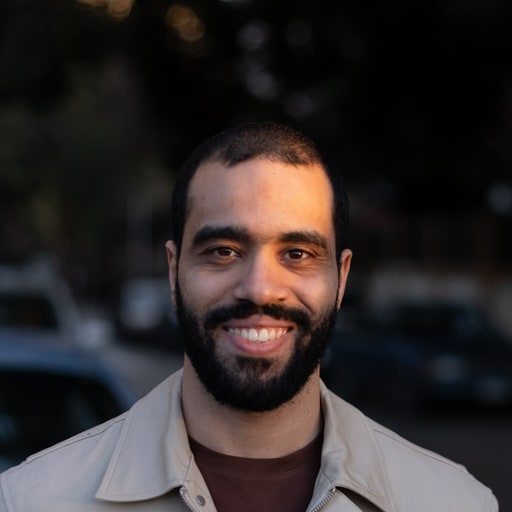
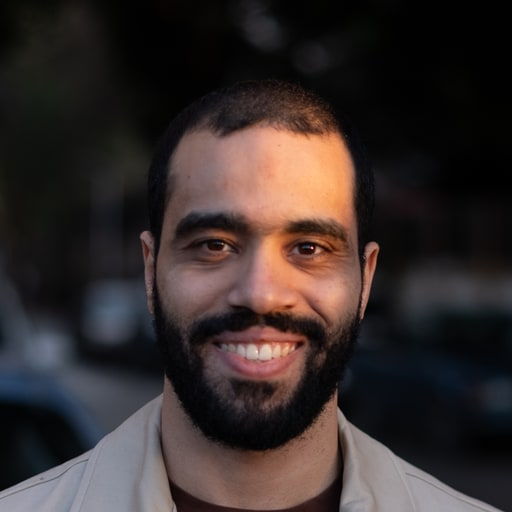
Centre the byline and metadata as a band; bigger emblem; tighter portrait
THE BAND. Byline and metadata are now one centred group sitting between the
deck and the first paragraph, rather than a name under the deck and a stack in
the margin. They are one thought — who wrote this, what it is, when it
happened — and centring separates that from the left-aligned reading column
above and below, so the eye takes it in once and moves on.

The metadata runs inline again to suit the band, with dot separators drawn in
CSS so no item has to know whether it is last.

SPACING IS OWNED BY THE BAND, which is what makes it identical with or without
a standfirst. Measured both ways: 96px above and 96px below, deck or no deck.

Getting there exposed a real defect. `.article__title` and `.article__deck`
were each declared TWICE in article.css — once in the grid placement block and
again in the typographic block below it — and the later margins were silently
winning by source order. My first attempt at the fix appeared to do nothing
for exactly that reason. Spacing for the header rows now lives in one place
and the duplicates carry type only.

Emblem 1.75rem -> 2.5rem. Footer carries the site name: © 2026 Brand
Ponderatio.

PORTRAIT recropped tighter and lifted — 0.50 of frame height rather than 0.64,
centred at 37.5% rather than 37%. Checked against a circular mask rather than
the square, since the square is not what anyone sees.

Also: "Suppose Parts 1 and 2 are granted" in Part III, missed when the prose
moved to roman numerals.

diff --git a/src/styles/article.css b/src/styles/article.css
@@ -42,7 +42,9 @@
   grid-column: 1 / -1;
   grid-row: 1;
   grid-template-columns: subgrid;
-  margin-block-end: var(--space-8);
+  /* Matches the band's own top margin, so the band sits in a symmetrical
+     clearing between the title block and the prose. */
+  margin-block-end: var(--space-9);
 }
 
 /* Four rows, explicitly placed.
@@ -50,16 +52,19 @@
      row 1   ┌──── breadcrumb ──────────────────┐
      row 2   ┌──── title ───────────────────────┐
      row 3                       │  deck        │
-     row 4   │  metadata         │  byline      │
+     row 4   ┌──── byline + metadata, centred ──┐
 
-   THE METADATA LINES UP WITH THE BYLINE, NOT THE DECK, and that is the whole
-   reason for the extra row. Both are apparatus — facts about the piece and
-   about who wrote it — so putting them level across the gutter lets them read
-   as one band. The deck is not apparatus; it is the last content before the
-   prose, and a block of dates sitting beside it reads as a caption to it,
-   which it is not.
+   THE BAND SITS BETWEEN THE DECK AND THE FIRST PARAGRAPH, centred across the
+   full span. Byline and metadata are grouped because they are one thought —
+   who wrote this, what it is, when it happened — and centring separates that
+   from the left-aligned reading column above and below it, so the eye takes
+   it in once and moves on.
 
-   With no deck, row 3 collapses and the band sits directly under the title. */
+   THE BAND OWNS THE SPACE ABOVE IT, not the deck. That is what keeps the
+   spacing identical whether or not a piece has a standfirst: with no deck,
+   row 3 collapses to nothing and the band still sits the same distance below
+   the title. Putting the gap on the deck's bottom margin would have made a
+   deckless piece close up. */
 .article__topline {
   grid-column: 1 / -1;
   grid-row: 1;
@@ -68,23 +73,31 @@
 .article__title {
   grid-column: 1 / -1;
   grid-row: 2;
+  /* No bottom margin. The deck owns the gap below the title, and the band
+     owns the gap above itself — so a piece with no deck gets exactly the
+     same clearing before the band as a piece with one. Left on the title,
+     this margin leaked into that gap and made the deckless case 24px
+     looser. */
+  margin-block-end: 0;
 }
 
 .article__deck {
   grid-column: 3;
   grid-row: 3;
-  margin-block-end: var(--space-5);
+  margin-block: var(--space-5) 0;
 }
 
-.article__aside {
-  grid-column: 1;
+.article__band {
+  grid-column: 1 / -1;
   grid-row: 4;
+  display: flex;
+  flex-wrap: wrap;
+  justify-content: center;
+  align-items: center;
+  gap: var(--space-3) var(--space-6);
+  margin-block-start: var(--space-9);
 }
 
-.article__credit {
-  grid-column: 3;
-  grid-row: 4;
-}
 
 .prose {
   grid-column: 3;
@@ -186,14 +199,15 @@
   }
 }
 
+/* Type only. Spacing for the header rows is set once, in the placement block
+   above — declaring it again here silently overrode it by source order, and
+   cost the deckless case 24px it was not supposed to have. */
 .article__title {
   font-size: var(--type-title-size);
   line-height: var(--type-title-leading);
-  margin-block-end: var(--space-5);
 }
 
 .article__deck {
-  margin-block: 0;
   font-family: var(--font-text);
   /* Italic. A deck is not a short first paragraph — it is the editor's
      voice rather than the author's, and the italic is what tells a reader
